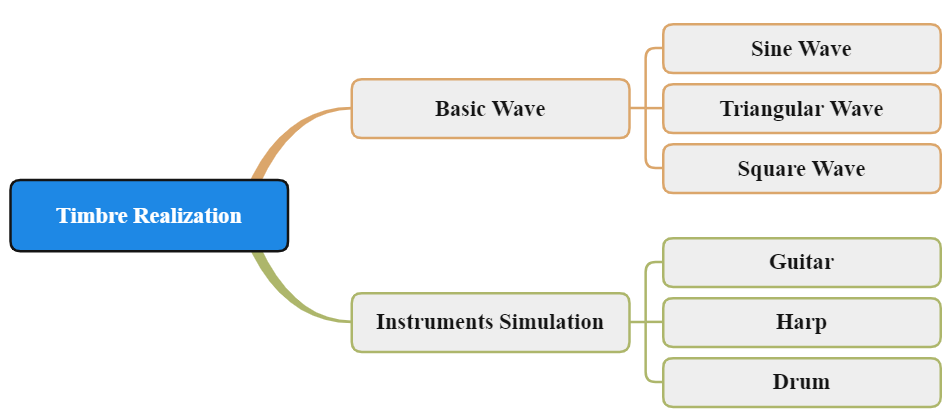
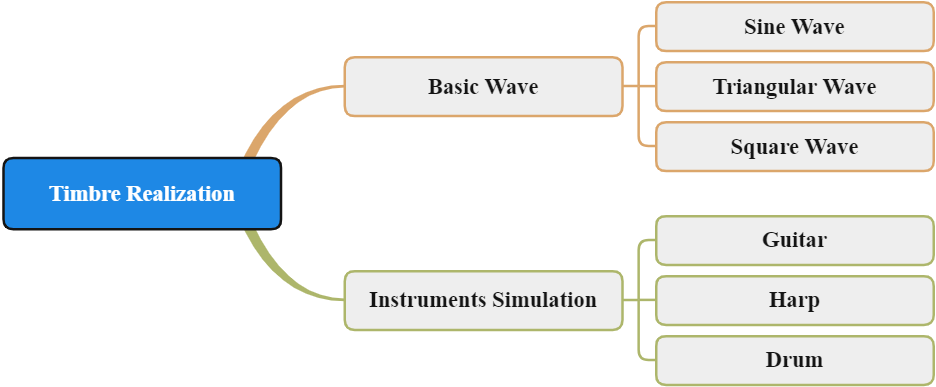
嵌入式答辩ppt V1.0

Changed region(s): [[0.0, 0.0, 1.0, 0.6202], [0.3098, 0.5581, 1.0, 1.0], [0.2788, 0.6512, 0.3098, 0.7132]]

diff --git a/src/component/ppt/RPiDefense.js b/src/component/ppt/RPiDefense.js
@@ -318,23 +318,43 @@ const RPiDefense = () => {
                             style={{width: "950px"}}
                             alt="Chord"
                         />
-
                     </section>
                     <section>
                         <SecondHeader text="Timbres"/>
-                        <img src="/resources/img/rpiDefense/TimbreRealization.png" width="800" alt="Timbres"/>
+                        <img
+                            src="/resources/img/rpiDefense/TimbreRealization.png"
+                            style={{width: "800px", marginTop:"-15px", marginBottom:"0px"}}
+                            alt="Timbres"
+                        />
+                        <img
+                            className="fragment"
+                            src="/resources/img/rpiDefense/ClassInheritance.png"
+                            style={{width: "800px", marginTop:"-0px"}}
+                            alt="ClassInheritance"
+                        />
                     </section>
                     <section>
                         <SecondHeader text="Karplus-Strong"/>
-                        {/*TODO Karplus-Strong算法*/}
+                        <img
+                            src="/resources/img/rpiDefense/KarplusStrong.png"
+                            style={{width: "800px"}}
+                            alt="Karplus Strong"
+                        />
+                        <ThirdHeader text="Simple but Effective"/>
                     </section>
                     <section>
                         <SecondHeader text="Wave Visualization"/>
-                        <img src="/resources/img/rpiDefense/WaveVisualization.png" width="900" alt="Wave Visualization"/>
+                        <img
+                            src="/resources/img/rpiDefense/WaveVisualization.png"
+                            style={{width: "900px"}}
+                            alt="Wave Visualization"/>
                     </section>
                     <section>
                         <SecondHeader text="UI Design"/>
-                        <img src="/resources/img/rpiDefense/UIDesign.png" width="600" alt="UI Design"/>
+                        <img
+                            src="/resources/img/rpiDefense/UIDesign.png"
+                            style={{width: "600px"}}
+                            alt="UI Design"/>
                     </section>
                 </section>
 
@@ -352,7 +372,14 @@ const RPiDefense = () => {
                     </section>
                     <section>
                         <SecondHeader text="Obstacles"/>
-                        {/*TODO 遇到的困难*/}
+                        <ul className="ui_content">
+                            <li className="li_content">Time-critical features of audio application.</li>
+                            <li className="li_content">The program works well on Windows but <span className="fail-strong">FAILED</span> on Raspberry Pi.</li>
+                            <li className="li_content">Maintaining the code for both platforms almost drives me crazy.</li>
+                            <li className="li_content">Without any industrial design.</li>
+                            <li className="li_content">Incomprehensible concurrency bugs</li>
+                            <li className="li_content">Architecting a complex system.</li>
+                        </ul>
                     </section>
                     <section>
                         <SecondHeader text="Labour Division"/>

diff --git a/src/component/ppt/PPTGeneral.css b/src/component/ppt/PPTGeneral.css
@@ -17,12 +17,13 @@
     font-size: 28px;
     font-weight: 500;
     line-height: 60px;
-    width: 90%;
+    width: 100%;
 }
 
 .li_content {
     margin-bottom: -10px;
     font-family: sans-serif, "Times New Roman", Lato, SimHei;
+    /*line-height: 40px;*/
 }
 
 .result_table {

diff --git a/src/component/ppt/RPiDefense.css b/src/component/ppt/RPiDefense.css
@@ -14,3 +14,8 @@
 .midi-note-table {
     line-height: 16px;
 }
+
+.fail-strong {
+    color: red;
+    font-weight: 700;
+}
